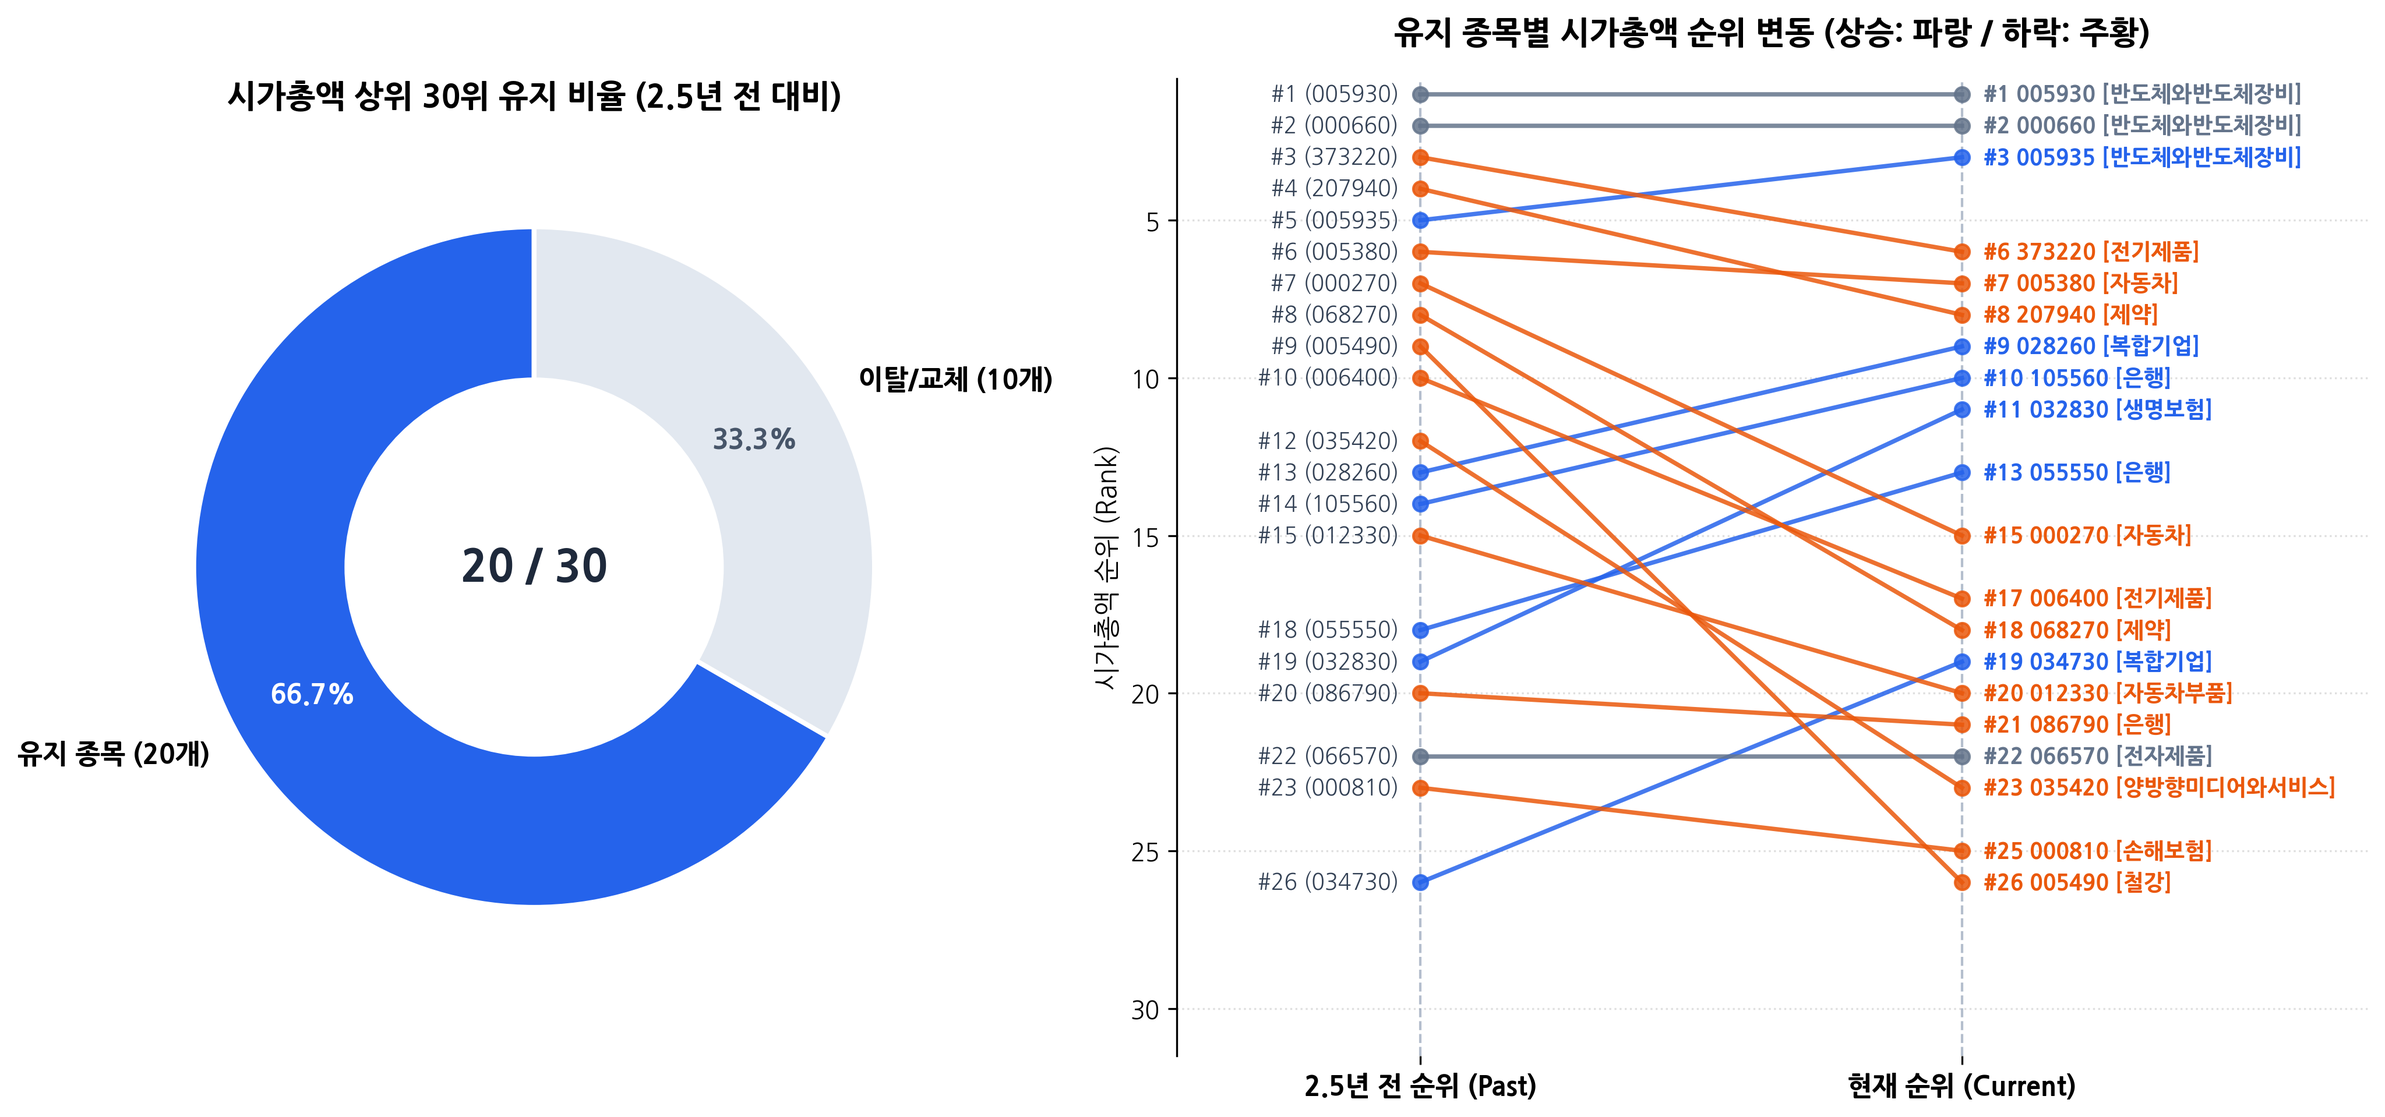
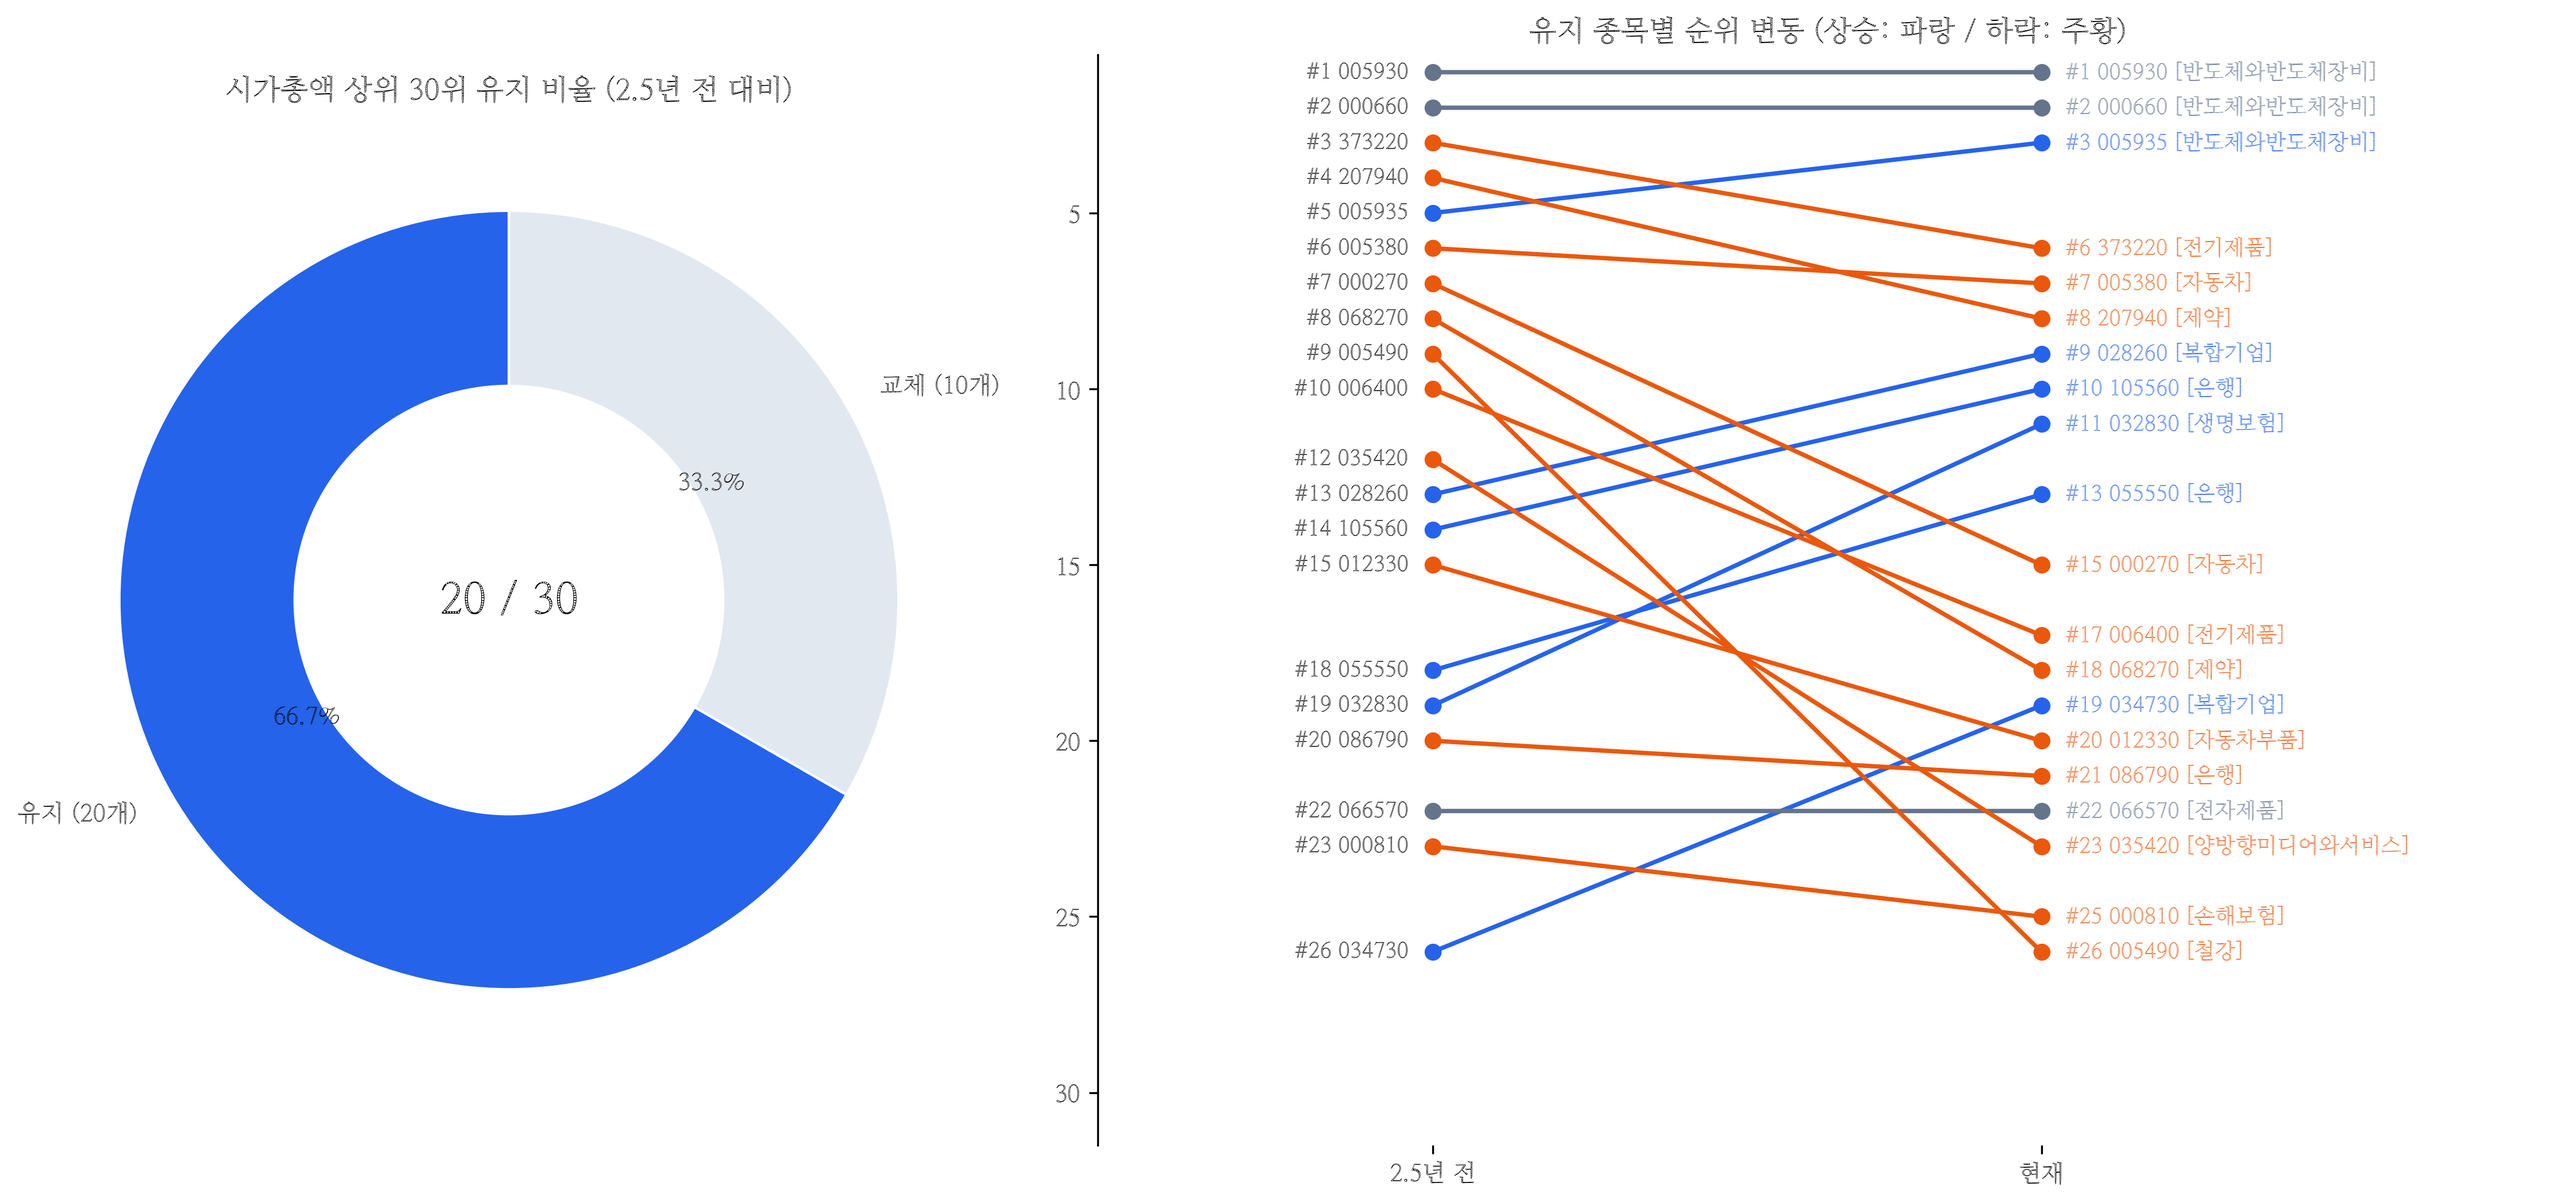
Add top 30 retention chart with company names

diff --git a/plot_top30_retention.py b/plot_top30_retention.py
@@ -1,104 +1,50 @@
-import pandas as pd
+import os, re, urllib.request, pandas as pd
 import matplotlib.pyplot as plt
 import matplotlib.font_manager as fm
 
-# 1. 리눅스 서버 내 한글 폰트 자동 탐색 및 설정
-font_candidates = ['NanumGothic', 'NanumBarunGothic', 'Malgun Gothic', 'AppleGothic', 'Noto Sans CJK KR']
-available_fonts = {f.name for f in fm.fontManager.ttflist}
-selected_font = next((f for f in font_candidates if f in available_fonts), None)
-
-if selected_font:
-    plt.rcParams['font.family'] = selected_font
-    use_korean = True
-else:
-    plt.rcParams['font.family'] = 'DejaVu Sans'
-    use_korean = False
+for r, _, fs in os.walk('/usr/share/fonts'):
+    for f in fs:
+        if any(k in f.lower() for k in ['nanum', 'noto', 'malgun', 'gulim']) and f.endswith(('.ttf', '.otf')):
+            p = os.path.join(r, f)
+            fm.fontManager.addfont(p)
+            plt.rcParams['font.family'] = fm.FontProperties(fname=p).get_name()
+            break
 plt.rcParams['axes.unicode_minus'] = False
 
-# 2. 데이터 로드
 df = pd.read_csv('top30_retained_stocks.csv', dtype={'Code': str})
-retained_count = len(df)
-dropped_count = 30 - retained_count
+df['Code'] = df['Code'].str.zfill(6)
 
-# 3. 1행 2열 그래프 레이아웃 설정
-fig, (ax1, ax2) = plt.subplots(1, 2, figsize=(14, 6.5), gridspec_kw={'width_ratios': [1, 1.4]})
-fig.patch.set_facecolor('white')
+url = 'http://kind.krx.co.kr/corpgeneral/corpList.do?method=download&searchType=13'
+html = urllib.request.urlopen(url).read().decode('euc-kr', errors='ignore')
+rows = re.findall(r'<tr[^>]*>(.*?)</tr>', html, re.S)
+name_map = {}
+for row in rows:
+    cols = [re.sub(r'<[^>]+>', '', c).strip() for c in re.findall(r'<td[^>]*>(.*?)</td>', row, re.S)]
+    if len(cols) >= 2 and cols[1].isdigit():
+        name_map[cols[1].zfill(6)] = cols[0]
 
-# --- [왼쪽] 도넛 차트: 상위 30위 유지 비율 ---
-sizes = [retained_count, dropped_count]
-colors = ['#2563EB', '#E2E8F0']
-labels = [
-    f'유지 종목 ({retained_count}개)' if use_korean else f'Retained ({retained_count})',
-    f'이탈/교체 ({dropped_count}개)' if use_korean else f'Replaced ({dropped_count})'
-]
+df['Name'] = df['Code'].map(name_map).fillna(df['Code'])
+df.to_csv('top30_retained_stocks.csv', index=False, encoding='utf-8-sig')
+print("기업명 매핑 결과:\n", df[['Code', 'Name', 'Past_Rank', 'Now_Rank']])
 
-wedges, texts, autotexts = ax1.pie(
-    sizes,
-    labels=labels,
-    autopct='%1.1f%%',
-    startangle=90,
-    colors=colors,
-    pctdistance=0.75,
-    wedgeprops=dict(width=0.45, edgecolor='white', linewidth=2),
-    textprops=dict(fontsize=11, fontweight='bold')
-)
-autotexts[0].set_color('white')
-autotexts[1].set_color('#475569')
+fig, (ax1, ax2) = plt.subplots(1, 2, figsize=(15, 7), gridspec_kw={'width_ratios': [1, 1.5]})
+n_ret = len(df)
 
-center_text = f"{retained_count} / 30"
-ax1.text(0, 0, center_text, ha='center', va='center', fontsize=18, fontweight='bold', color='#1E293B')
-ax1.set_title(
-    '시가총액 상위 30위 유지 비율 (2.5년 전 대비)' if use_korean else 'Top 30 Market Cap Retention Rate (2.5Y)',
-    fontsize=13, fontweight='bold', pad=15
-)
+ax1.pie([n_ret, 30 - n_ret], labels=[f'유지 ({n_ret}개)', f'교체 ({30-n_ret}개)'], autopct='%1.1f%%',
+        startangle=90, colors=['#2563EB', '#E2E8F0'], wedgeprops=dict(width=0.45, edgecolor='w'))
+ax1.text(0, 0, f"{n_ret} / 30", ha='center', va='center', fontsize=18, fontweight='bold')
+ax1.set_title('시가총액 상위 30위 유지 비율 (2.5년 전 대비)', fontweight='bold')
 
-# --- [오른쪽] 슬로프 차트: 유지된 종목의 순위 변화 (과거 vs 현재) ---
-df_sorted = df.sort_values('Now_Rank').reset_index(drop=True)
+for _, r in df.sort_values('Now_Rank').iterrows():
+    c = '#2563EB' if r['Now_Rank'] < r['Past_Rank'] else ('#EA580C' if r['Now_Rank'] > r['Past_Rank'] else '#64748B')
+    ax2.plot([0, 1], [r['Past_Rank'], r['Now_Rank']], marker='o', color=c, lw=1.8)
+    ax2.text(-0.04, r['Past_Rank'], f"#{int(r['Past_Rank'])} {r['Name']}", ha='right', va='center', fontsize=9)
+    ax2.text(1.04, r['Now_Rank'], f"#{int(r['Now_Rank'])} {r['Name']} [{r['Sector']}]", ha='left', va='center', fontsize=9, fontweight='bold', color=c)
 
-ax2.axvline(0, color='#94A3B8', linestyle='--', linewidth=1, alpha=0.7)
-ax2.axvline(1, color='#94A3B8', linestyle='--', linewidth=1, alpha=0.7)
-
-for _, row in df_sorted.iterrows():
-    p_rank = row['Past_Rank']
-    n_rank = row['Now_Rank']
-    code = row['Code']
-    sector = row['Sector']
-    
-    # 순위 상승(파랑), 하락(주황), 유지(회색)
-    if n_rank < p_rank:
-        line_color = '#2563EB'
-    elif n_rank > p_rank:
-        line_color = '#EA580C'
-    else:
-        line_color = '#64748B'
-        
-    ax2.plot([0, 1], [p_rank, n_rank], marker='o', color=line_color, linewidth=1.8, alpha=0.85)
-    
-    # 왼쪽(과거 순위) 라벨
-    ax2.text(-0.04, p_rank, f"#{int(p_rank)} ({code})", ha='right', va='center', fontsize=9, color='#334155')
-    # 오른쪽(현재 순위) 라벨
-    right_label = f"#{int(n_rank)} {code} [{sector}]" if use_korean else f"#{int(n_rank)} {code}"
-    ax2.text(1.04, n_rank, right_label, ha='left', va='center', fontsize=9, fontweight='bold', color=line_color)
-
-ax2.set_ylim(31.5, 0.5)  # 1위가 맨 위로 오도록 Y축 반전
-ax2.set_xlim(-0.45, 1.75)
-ax2.set_xticks([0, 1])
-ax2.set_xticklabels(
-    ['2.5년 전 순위 (Past)' if use_korean else '2.5 Years Ago',
-     '현재 순위 (Current)' if use_korean else 'Current'],
-    fontsize=11, fontweight='bold'
-)
-ax2.set_ylabel('시가총액 순위 (Rank)' if use_korean else 'Market Cap Rank', fontsize=11)
-ax2.set_title(
-    '유지 종목별 시가총액 순위 변동 (상승: 파랑 / 하락: 주황)' if use_korean else 'Rank Trajectory of Retained Stocks (Up: Blue / Down: Orange)',
-    fontsize=13, fontweight='bold', pad=15
-)
-ax2.spines['top'].set_visible(False)
-ax2.spines['right'].set_visible(False)
-ax2.spines['bottom'].set_visible(False)
-ax2.grid(axis='y', linestyle=':', alpha=0.4)
+ax2.set(ylim=(31.5, 0.5), xlim=(-0.55, 1.85), xticks=[0, 1], xticklabels=['2.5년 전', '현재'])
+ax2.set_title('유지 종목별 순위 변동 (상승: 파랑 / 하락: 주황)', fontweight='bold')
+for s in ['top', 'right', 'bottom']: ax2.spines[s].set_visible(False)
 
 plt.tight_layout()
-output_file = 'top30_retention_chart.png'
-plt.savefig(output_file, dpi=300, bbox_inches='tight')
-print(f"시각화 저장 완료: {output_file} (한글폰트 적용: {selected_font})")
+plt.savefig('top30_retention_chart.png', dpi=300, bbox_inches='tight')
+print("완료! 폰트:", plt.rcParams['font.family'])
